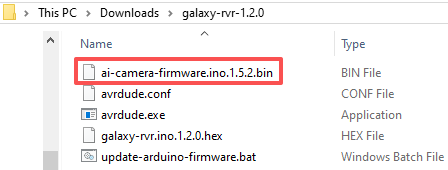
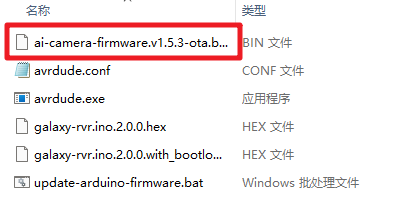
docs: update firmware links and add OTA upgrade instructions with new images

diff --git a/docs/source/conf.py b/docs/source/conf.py
@@ -182,6 +182,6 @@ rst_epilog = """
 .. |download_galaxyrvr_code| replace:: :download:`GalaxyRVR Code File <https://github.com/sunfounder/galaxy-rvr/archive/refs/heads/1.2.x.zip>`
 
 
-.. |download_galaxyrvr_filmware| replace:: :download:`GalaxyRVR Firmware File <https://github.com/sunfounder/galaxy-rvr/releases/download/1.2.1/galaxy-rvr.ino.1.2.1.zip>`
+.. |download_galaxyrvr_filmware| replace:: :download:`GalaxyRVR Firmware File <https://github.com/sunfounder/galaxy-rvr/releases/download/2.0.0/galaxy-rvr.ino.2.0.0.zip>`
 
 """

diff --git a/docs/source/update_firmware.rst b/docs/source/update_firmware.rst
@@ -91,48 +91,89 @@ If the firmware is outdated, these functions may not work properly. Follow the s
    .. image:: img/camera_lan.png
         :width: 50%
         :align: center
-       
-#. Open a web browser on your mobile device and go to the address ``http://[phone redacted]``. This will take you to the ESP32-CAM firmware update portal.
+
+#. Open a web browser on your mobile device and navigate to ``http://[phone redacted]`` to access the ESP32 CAM OTA update page.
+
+
+.. note:: On this page, you will see OTA upgrade options in one of two interfaces. Version A (the former) and Version B (the latter) will appear depending on your firmware version. Simply select the corresponding upgrade steps based on the interface you see.
+
+   .. image:: img/faq_cam_ota.jpg
+      :width: 40%
 
    .. image:: img/firmware_access.jpg
-        :width: 50%
-        :align: center
+      :width: 40%
 
-#. On the **OTA** page, check the current firmware version displayed on the webpage.
-    
-   * If your version number is **higher than 1.5.1**, an update is not required. You can skip the remaining steps and proceed directly to :ref:`quick_start`.
-   * If the version is **1.5.1 or lower**, please continue with the update.
 
-   .. image:: img/firmware_version.jpg
-        :width: 50%
-        :align: center
+**Version A**
 
-#. Tap the **Upgrade Firmware** button.
+   5. On the OTA page, click the button to select the firmware file.
 
-   .. image:: img/firmware_tap.jpg
-        :width: 50%
-        :align: center
+      .. image:: img/faq_cam_ota_choose.png
+         :width: 400
 
-#. A file selection dialog will appear. Navigate to and select the ``ai-camera-firware.ino.x.x.x.bin`` file you transferred to your mobile device earlier.
+   #. Choose the previously downloaded ``ai-camera-firmware-vX.X.X-ota.bin`` file from your device and click **Add**.
 
-   .. image:: img/firmware_select.jpg
-        :width: 50%
-        :align: center
+      .. image:: img/faq_cam_ota_file.png
+         :width: 400
 
-#. The firmware update will begin immediately after you select the file.
+   #. Click the **Update** button to start the firmware update process.
 
-   .. image:: img/firmware_upgrade.jpg
-        :width: 50%
-        :align: center
+      .. image:: img/faq_cam_ota_update.png
+         :width: 400
+      
+   #. Wait for the update to complete. 
 
-#. Wait for the firmware upgrade to complete.
+      .. image:: img/faq_cam_ota_finish.png
+         :width: 400
 
-   * The upload process typically takes 1-2 minutes. Once finished, a success message will appear in a pop-up window.
-   * You can then select **CONFIRM** to restart the GalaxyRVR or **CLOSE** to dismiss the window.
+   #. After the update is complete, you can close the web browser. Press the **Reset** button to reboot the device. The ESP32 CAM is now ready for normal operation.
 
-   .. image:: img/firmware_finish.jpg
-        :width: 50%
-        :align: center
+      .. image:: img/camera_reset.png
+         :width: 600
+
+   .. note:: After the update is complete, the GalaxyRVR's WiFi hotspot name will change to "AI Camera-xxxxxx", and the password will remain "12345678".
+
+
+**Version B**
+
+
+   5. On the **OTA** page, check the current firmware version displayed on the webpage.
+      
+      * If your version number is **higher than 1.5.1**, an update is not required. You can skip the remaining steps and proceed directly to :ref:`quick_start`.
+      * If the version is **1.5.1 or lower**, please continue with the update.
+
+      .. image:: img/firmware_version.jpg
+         :width: 50%
+         :align: center
+
+
+   #. Tap the **Upgrade Firmware** button.
+
+      .. image:: img/firmware_tap.jpg
+         :width: 50%
+         :align: center
+
+   #. A file selection dialog will appear. Navigate to and select the ``ai-camera-firware.ino.x.x.x.bin`` file you transferred to your mobile device earlier.
+
+      .. image:: img/firmware_select.jpg
+         :width: 50%
+         :align: center
+
+   #. The firmware update will begin immediately after you select the file.
+
+      .. image:: img/firmware_upgrade.jpg
+         :width: 50%
+         :align: center
+
+   #. Wait for the firmware upgrade to complete.
+
+      * The upload process typically takes 1-2 minutes. Once finished, a success message will appear in a pop-up window.
+      * You can then select **CONFIRM** to restart the GalaxyRVR or **CLOSE** to dismiss the window.
+
+      .. image:: img/firmware_finish.jpg
+         :width: 50%
+         :align: center
+
 
 .. _update_r3_firmware:
 
@@ -185,3 +226,4 @@ Follow the steps below to reinstall the communication firmware.
 
    This code enables the GalaxyRVR to respond to APP commands. You won’t need to upload any additional code when using either the RoboPilot remote control APP or the Mammoth Coding software.
 
+#. You can now proceed to :ref:`quick_start` to start your GalaxyRVR journey!

diff --git a/docs/source/scratch/sc3_rvr_move.rst b/docs/source/scratch/sc3_rvr_move.rst
@@ -44,7 +44,6 @@ Connecting the APP to GalaxyRVR
 
 .. note::
 
-    * The GalaxyRVR’s R3 board comes with firmware that supports the RoboPilot App and Mammoth Coding.
     * If you have overwritten the firmware and need to restore communication, follow :ref:`update_r3_firmware`.
 
 #. Before using the GalaxyRVR for the first time, fully charge the battery with the supplied Type-C USB cable. After charging, turn the power on.
@@ -97,8 +96,8 @@ Connecting the APP to GalaxyRVR
       
       Connection status is indicated by the GalaxyRVR's LED lights:
       
-      - **Flashing yellow**: Searching for connection
-      - **Steady blue**: Successfully connected and ready
+      - **Flashing Purple**: Searching for connection
+      - **Solid Off**: Successfully connected and ready
 
 Re-connect APP
 -------------------------------------

diff --git a/docs/source/quick_start/quick_start_robopilot.rst b/docs/source/quick_start/quick_start_robopilot.rst
@@ -28,7 +28,6 @@ With RoboPilot, you can:
 
 .. note::
 
-    * The GalaxyRVR’s R3 board comes with firmware that supports the RoboPilot App and Mammoth Coding.
     * If you have overwritten the firmware and need to restore communication, follow :ref:`update_r3_firmware`.
 
 Quick Guide